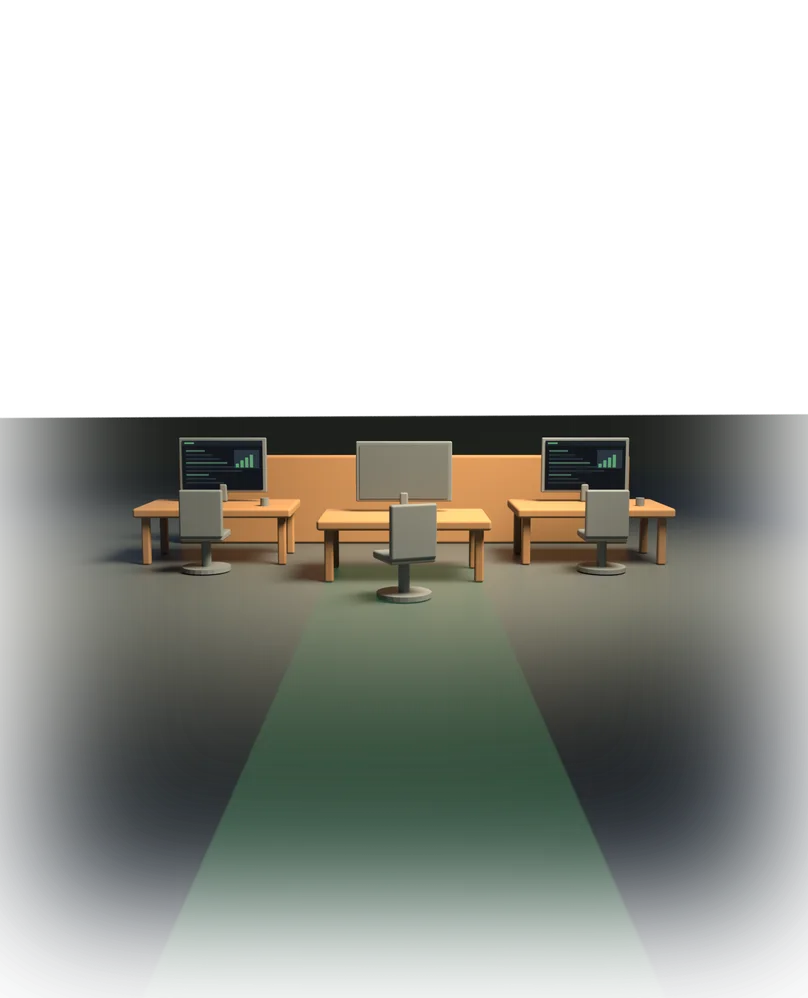
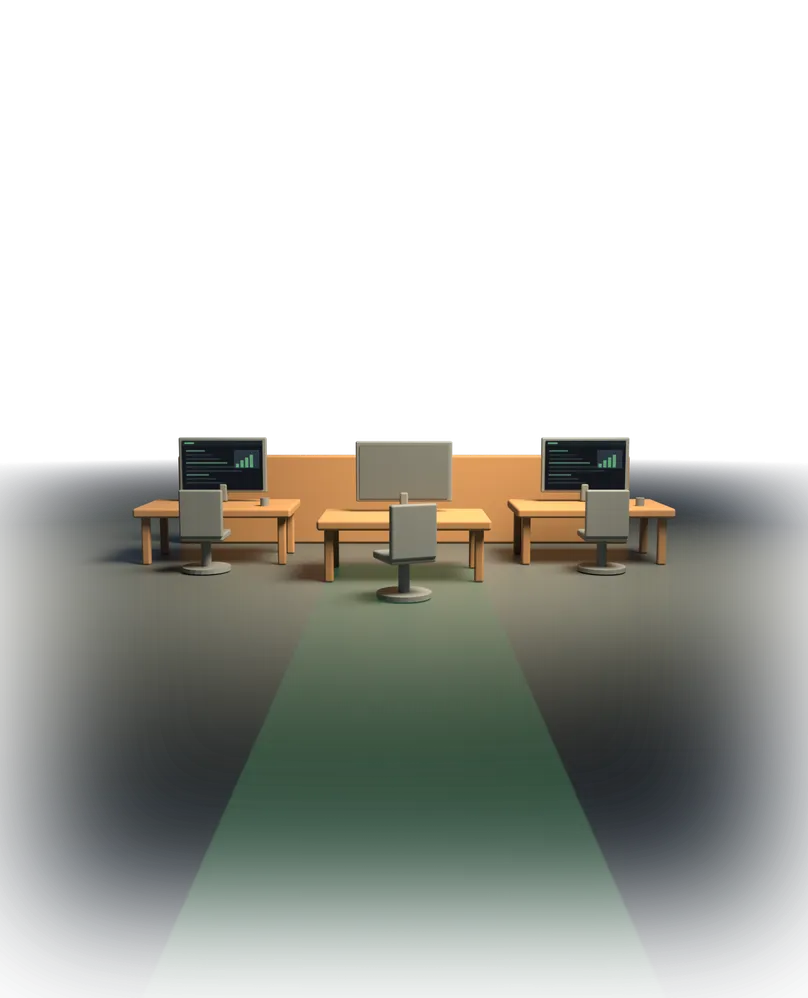
The far floor fades to nothing, so the stills sit on either theme's ink, and the screens are set in their own faces
The first render misted the floor to the light theme's ink, and the dark
theme, which paints a darker ink, showed a lighter plane with a horizon.
The mist now goes into the alpha: the far floor fades to transparent and
the section's own background shows through in both themes. Checked with
tools/shoot.mjs --dark at 1440x900.

Re-rendered from textures drawn in Archivo and IBM Plex, the faces the
drawing names, which the page never served before. WebP quality 80 after
84 measured 727 kB. Measured: 710.5 kB over the twelve files, a visitor
loads at most five, 202 kB at 1x or 432 kB at 2x; the gate's cap moves to
768 kB and spec 3.6 records the measurement in place of its guess.

Changed region(s): [[0.0, 0.4038, 1.0, 0.5281]]

diff --git a/web/tools/blender/crossroads.py b/web/tools/blender/crossroads.py
@@ -1,10 +1,15 @@
 """
-The crossroads, rebuilt in Blender and rendered with Cycles.
+The crossroads, built and rendered in Blender with Cycles.
 
-Spike, 2 September 2026. The question it answers: does the same composition
-(four ways on lanes from a junction, the same objects, the same shots) read as
-professional once it is lit and rendered properly, instead of drawn from code
-primitives in three.js?
+The homepage's services section shows five stills of this scene, junction and
+four ways, plus a poster for the fallback. This script builds the same lanes,
+objects and shots the live three.js scene used to draw, from the screen
+textures `capture-textures.mjs` writes, and renders each shot as a transparent
+PNG with the label anchors it was rendered with. `emit-stills.mjs` turns the
+renders into the WebPs and the generated `stills.ts` the page reads.
+
+It began as the 2 September 2026 spike that answered whether the composition
+reads as professional once it is lit and rendered properly. It did.
 
 Coordinates: the page's scene is three.js, y up, the camera looking down -z.
 Blender is z up. Every three.js point (x, y, z) becomes the Blender point
@@ -497,58 +502,76 @@ if LINES:
     ls.linestyle.alpha = 0.35
     ls.linestyle.thickness = 1.2
 
-# Compositor: mist to the page's ink (so the far floor fades to exactly what the
-# CSS paints around the canvas), then a bloom on what is brighter than white.
+# Compositor. Two things make a still sit on the page's own ink at any stage
+# size and in either theme: the far floor fades to NOTHING with distance, and
+# the near floor and the sides fade to nothing at the frame. Both are done to
+# the alpha, never by mixing in a colour: the first build misted the floor to
+# the light theme's ink and the dark theme, which paints a darker ink, showed
+# a lighter plane with a horizon on it. Then a bloom on what is brighter than
+# white.
+#
+# Cycles hands the compositor premultiplied colour, so the fade factor is
+# multiplied into the colour and the alpha alike, and the alpha is replaced
+# rather than applied a second time (applying would square it on antialiased
+# silhouettes and darken every edge).
 scene.use_nodes = True
 tree = scene.node_tree
 tree.nodes.clear()
 rl = tree.nodes.new("CompositorNodeRLayers")
-mix = tree.nodes.new("CompositorNodeMixRGB")
-mix.blend_type = "MIX"
-mix.inputs[2].default_value = lin(PALETTE["background"])
 glare = tree.nodes.new("CompositorNodeGlare")
 comp = tree.nodes.new("CompositorNodeComposite")
-tree.links.new(rl.outputs["Mist"], mix.inputs["Fac"])
-tree.links.new(rl.outputs["Image"], mix.inputs[1])
-# Cycles hands the compositor premultiplied colour. The mix above paints the
-# sky ink at alpha 0, which is not premultiplied any more; re-apply the alpha
-# so the sky is (0, 0, 0, 0) again and an alpha-over adds the ink once.
-premul = tree.nodes.new("CompositorNodeSetAlpha")
-premul.mode = "APPLY"
-tree.links.new(mix.outputs["Image"], premul.inputs["Image"])
-# The edges fade to nothing: a soft box multiplies the alpha, so the near
-# floor and the sides of the still end in the page's ink wherever the still
-# is placed, at any stage size. The objects and the light pool sit well
-# inside the box. Its width is set per shot below (the junction's fan reaches
-# further out than a close-up).
-# In Blender 4.5 the box's place and size are input sockets. Measured on a
-# 404x499 frame: Position is a fraction of each axis (y from the bottom), Size
-# is a fraction of the image WIDTH on both axes, and the node's own `width`
-# and `height` are its box on the editor canvas, which is a trap this script
-# fell into once. So a height of 1.05 on the 808x998 still is 848 px, from
-# 55 px under the top to 95 px above the bottom before the blur.
+
+# The distance fade: 1 - mist.
+far = tree.nodes.new("CompositorNodeMath")
+far.operation = "SUBTRACT"
+far.inputs[0].default_value = 1.0
+tree.links.new(rl.outputs["Mist"], far.inputs[1])
+
+# The frame fade: a soft box. In Blender 4.5 the box's place and size are
+# input sockets. Measured on a 404x499 frame: Position is a fraction of each
+# axis (y from the bottom), Size is a fraction of the image WIDTH on both
+# axes, and the node's own `width` and `height` are its box on the editor
+# canvas, which is a trap this script fell into once. So a height of 1.05 on
+# the 808x998 still is 848 px, from 55 px under the top to 95 px above the
+# bottom before the blur.
 MASK_HEIGHT = 1.05
 box_mask = tree.nodes.new("CompositorNodeBoxMask")
 box_mask.inputs["Position"].default_value = (0.5, 0.52)
 box_mask.inputs["Size"].default_value = (0.92, MASK_HEIGHT)
-# Measured at half scale: a size of 120 turned the box's hard edge into a
-# soft zone about 80 px wide on each side, so the number is not a radius.
-# Scaled with the render, so the fade is the same fraction of the still at
-# 1x and 2x.
+# The blur's size is not a radius. Measured on the finished 1x junction with
+# the box at 0.92 (32 px in) and a size of 64 at 1x: alpha 17 of 255 at the
+# frame, 128 at 32 px, 252 at 80 px. The close-ups use 200, a soft zone a few
+# times wider, because nothing stands near their edges. Both scale with the
+# render so the fade is the same fraction of the still at 1x and 2x; the
+# per-shot values are set in the render loop below.
 mask_blur = tree.nodes.new("CompositorNodeBlur")
 mask_blur.filter_type = "FAST_GAUSS"
 mask_blur.use_relative = False
-mask_blur.size_x = int(200 * SCALE)
-mask_blur.size_y = int(200 * SCALE)
 tree.links.new(box_mask.outputs["Mask"], mask_blur.inputs["Image"])
-alpha_mul = tree.nodes.new("CompositorNodeMath")
-alpha_mul.operation = "MULTIPLY"
-tree.links.new(rl.outputs["Alpha"], alpha_mul.inputs[0])
+
+# fade = (1 - mist) * mask, or just (1 - mist) for the poster, which is
+# shown whole inside a bordered picture and needs no frame fade.
+fade = tree.nodes.new("CompositorNodeMath")
+fade.operation = "MULTIPLY"
+tree.links.new(far.outputs["Value"], fade.inputs[0])
 if MASK:
-    tree.links.new(mask_blur.outputs["Image"], alpha_mul.inputs[1])
+    tree.links.new(mask_blur.outputs["Image"], fade.inputs[1])
 else:
-    alpha_mul.inputs[1].default_value = 1.0
-tree.links.new(alpha_mul.outputs["Value"], premul.inputs["Alpha"])
+    fade.inputs[1].default_value = 1.0
+
+faded_rgb = tree.nodes.new("CompositorNodeMixRGB")
+faded_rgb.blend_type = "MULTIPLY"
+faded_rgb.inputs["Fac"].default_value = 1.0
+tree.links.new(rl.outputs["Image"], faded_rgb.inputs[1])
+tree.links.new(fade.outputs["Value"], faded_rgb.inputs[2])
+faded_alpha = tree.nodes.new("CompositorNodeMath")
+faded_alpha.operation = "MULTIPLY"
+tree.links.new(rl.outputs["Alpha"], faded_alpha.inputs[0])
+tree.links.new(fade.outputs["Value"], faded_alpha.inputs[1])
+premul = tree.nodes.new("CompositorNodeSetAlpha")
+premul.mode = "REPLACE_ALPHA"
+tree.links.new(faded_rgb.outputs["Image"], premul.inputs["Image"])
+tree.links.new(faded_alpha.outputs["Value"], premul.inputs["Alpha"])
 tree.links.new(premul.outputs["Image"], glare.inputs["Image"])
 if PREVIEW:
     over = tree.nodes.new("CompositorNodeAlphaOver")
@@ -601,12 +624,9 @@ for name in SHOTS_WANTED:
     aspect = FREE / H
     cam_data.angle_y = math.radians(fov_for(shot["fit"][0], shot["fit"][1], aspect))
     # The junction's fan reaches within 48 px of the still's left edge, so its
-    # box is wider than a close-up's and its fade is tighter: measured at 1x,
-    # the box at 0.94 with the wide blur left the first column at alpha 92 of
-    # 255, because the blur's soft zone is about 200 px wide and the box edge
-    # was 24 px in. A box at 0.92 (32 px in) with a blur of 64 fades from
-    # nothing at the frame to full about 64 px in, and the landing page's
-    # monitor starts at 48 px, so only its outermost strip is touched.
+    # box is wider than a close-up's and its fade is tighter (see the blur's
+    # comment above for the measured profile). The landing page's monitor
+    # starts at 48 px, so only its outermost strip is touched.
     if name == "junction":
         box_mask.inputs["Size"].default_value = (0.92, MASK_HEIGHT)
         mask_blur.size_x = mask_blur.size_y = int(64 * SCALE)

diff --git a/docs/superpowers/specs/2026-09-02-crossroads-stills-design.md b/docs/superpowers/specs/2026-09-02-crossroads-stills-design.md
@@ -37,7 +37,7 @@ Five shots: `junction`, `website`, `app`, `capacity`, `care`.
 
 ### 3.2 Edges
 
-The sky is transparent (film transparent), the far floor is misted to the page ink `#1c201c` exactly, and the still's alpha is multiplied by a soft box so the near floor and the sides fade to nothing over the outer part of the frame. The box is narrower than the frame on every still, the junction's included (0.94 of the width, the close-ups 0.9), so the fade completes inside the frame and no column of pixels is left at half alpha; the page adds no fade of its own. The objects and the light pool stay at full alpha. That is what lets a still sit anywhere on the ink with no visible edge at any stage size.
+The sky is transparent (film transparent), the far floor fades to transparent with distance (the mist pass multiplied into the alpha, never a colour mixed in), and the still's alpha is multiplied by a soft box so the near floor and the sides fade to nothing over the outer part of the frame. Nothing in a still is the page's ink, so the section's own background shows through in both themes; the first build misted the floor to the light theme's ink `#1c201c` and the dark theme, which paints `#141814`, showed a lighter plane with a horizon on it. The box is narrower than the frame on every still: the junction's is 0.92 of the width with a tight blur (measured at 1x: alpha 17 of 255 at the frame, 128 at 32 px, 252 at 80 px), the close-ups' 0.9 with a wide one, so the fade completes inside the frame and no column of pixels is left at half alpha. The page adds no fade of its own. The objects and the light pool stay at full alpha. That is what lets a still sit anywhere on the ink with no visible edge at any stage size.
 
 Colour management is Standard (no filmic curve), so the screens show the texture's own colours and the ink is the ink.
 
@@ -57,7 +57,7 @@ The phone and fallback poster is rendered by the same script in a wide framing (
 
 ### 3.6 Budget
 
-Five stills at 1x and 2x as WebP with alpha: under 400 kB in total, lazily loaded, only where the section mounts. The eager page chunk shrinks: no scene boot, no three.js, no deferred chunk at all. `scripts/check-bundle.mjs` changes from "the deferred scene chunk is under its cap" to "no chunk carries three.js and the eager chunk is within its baseline".
+Five stills at 1x and 2x as WebP with alpha, plus the two poster crops. Measured after the final render (2 September, transparent far floor, the screens in their own faces, WebP quality 80): 710.5 kB over the twelve files, of which a visitor loads at most five, 202 kB at 1x or 432 kB at 2x, lazily and only where the section mounts. (The first draft of this section guessed "under 400 kB" before anything was rendered; the guess was wrong and the number above is the measurement.) `scripts/check-bundle.mjs` caps the twelve files at 768 kB and re-measures after every re-render rather than raising the cap by reflex. The eager page chunk shrinks: no scene boot, no three.js, no deferred chunk at all; the gate holds the eager chunk to its baseline and refuses any chunk carrying three.js.
 
 ## 4. The component
 
